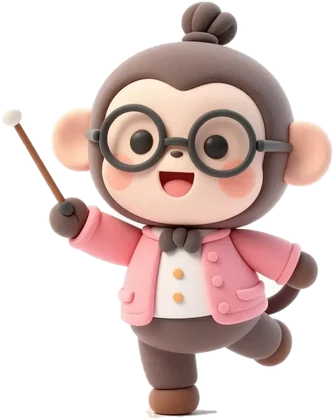
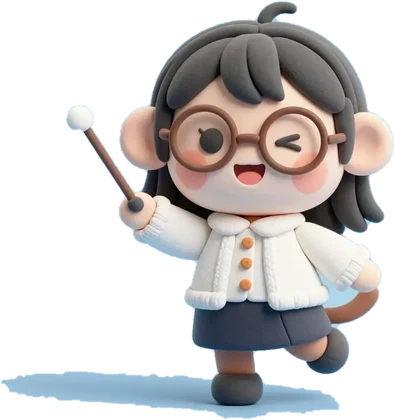
Zoo becomes one big zoo park: drag treats from the basket onto the animals; Atsuko-sensei monkey (long black hair, round glasses, white cardigan) runs around and can be hit with party pies
Claude-Session: https://claude.ai/code/session_01X11x3dUQAdxcMAuX8fPr4M

diff --git a/zoo.js b/zoo.js
@@ -1,94 +1,100 @@
-/* ===== The zoo: take your treats to the animals =====
-   Every animal loves one food from the shop. Give it, the animal munches and thanks you, and you become friends.
-   Friendship hearts are kept in S.zoo; 5 hearts = best friends (a zoo stamp). No coins here: coins come only from practising. */
+/* ===== The zoo: one big zoo park. Drag a treat from your basket onto an animal =====
+   Every animal loves one food. The right food → it munches and thanks you (friendship hearts, 5 = best friends).
+   The wrong food → "no thanks, I love …". Sweets → "sweets make animals sick!".
+   Atsuko-sensei runs around among the monkeys: drag a party pie (or a sweet) onto her and SPLAT.
+   No coins here: coins come only from practising. Hearts are kept in S.zoo, splats in S.zooHits. */
 const ZOO = [
-  { id: "monkey", food: "f_banana" }, { id: "elephant", food: "f_apple" }, { id: "rabbit", food: "f_cucumber" },
-  { id: "parrot", food: "f_pepper" }, { id: "bear", food: "f_honey" }, { id: "penguin", food: "f_fish" },
+  { id: "monkey", food: "f_banana", x: 34, y: 33, h: 15 }, { id: "elephant", food: "f_apple", x: 78, y: 27, h: 19 },
+  { id: "rabbit", food: "f_cucumber", x: 18, y: 52, h: 14 }, { id: "parrot", food: "f_pepper", x: 72, y: 62, h: 13 },
+  { id: "bear", food: "f_honey", x: 33, y: 90, h: 17 }, { id: "penguin", food: "f_fish", x: 64, y: 86, h: 15 },
 ];
-const ZBEST = 5;
-let ZOOF = null, ZAIM = false;
-const throwables = () => roomOf().items.filter(i => SWEETS.includes(i.id)).sort((a, b) => (a.id === "f_pie" ? -1 : 0) - (b.id === "f_pie" ? -1 : 0));
-function zooAim(on) {
-  ZAIM = on && throwables().length > 0;
-  if (on && !ZAIM) toast(t("z_noPie"));
-  const c = document.getElementById("zc-monkey"); if (c) c.outerHTML = zooCard(ZOO[0]);
-  if (ZAIM) { const s = document.getElementById("zs-monkey"); if (s) { s.textContent = t("z_aimHint"); s.classList.add("on"); } }
+const ZBEST = 5, ZFOODS = ["f_banana", "f_apple", "f_cucumber", "f_pepper", "f_honey", "f_fish", "f_pie"];
+let ZOOF = null, ZDRAG = null, ZSHOP = false;
+const throwables = () => roomOf().items.filter(i => SWEETS.includes(i.id));
+
+function zooTray() {
+  const R = roomOf(), cnt = {};
+  R.items.forEach(i => { if (itemOf(i.id)?.cat === "food" && !CATFOOD.includes(i.id)) cnt[i.id] = (cnt[i.id] || 0) + 1; });
+  const ids = Object.keys(cnt);
+  return `<div class="zt-row"><div class="zt-items">${ids.length ? ids.map(id => `<span class="zt-item" data-zf="${id}"><img src="${ART}${id}.webp" alt="${esc(itemOf(id).n)}" draggable="false"><b>${cnt[id]}</b></span>`).join("") : `<span class="muted small">${t("z_trayEmpty")}</span>`}</div>
+   <button class="btn sm soft zt-shopbtn" data-zoo="shop">🛒</button></div>
+   ${ZSHOP ? `<div class="zt-shop">${ZFOODS.map(id => { const F = itemOf(id); return `<button class="zt-buy" data-zoo="buy" data-f="${id}"><img src="${ART}${id}.webp" alt=""><span>${esc(F.n.replace(/ \(.*\)/, ""))}</span><span class="price">${I.coin}${F.p}</span></button>`; }).join("")}</div>` : ""}`;
 }
-/* throw a treat at Atsuko-sensei: tap where you want it to land. She keeps running, so aim well! */
-document.addEventListener("pointerdown", e => {
-  const pen = e.target.closest("#zpen-monkey.aiming"); if (!pen) return; e.preventDefault(); e.stopPropagation();
-  const T = throwables()[0]; if (!T) { zooAim(false); return; }
-  const R = roomOf(); R.items = R.items.filter(i => i !== T); save();
-  const pr = pen.getBoundingClientRect(), tx = e.clientX, ty = e.clientY, f = document.createElement("img");
-  f.src = ART + T.id + ".webp"; f.className = "zoo-fly throw"; f.style.left = (pr.left + pr.width / 2 - 22) + "px"; f.style.top = (pr.bottom + 30) + "px"; document.body.appendChild(f);
-  requestAnimationFrame(() => { f.style.transform = `translate(${tx - (pr.left + pr.width / 2)}px, ${ty - pr.bottom - 30}px) rotate(540deg) scale(.9)`; });
-  try { tone(60, 0, .15, .2); tone(67, .1, .15, .2); } catch (er) { }
-  setTimeout(() => {
-    f.remove();
-    const sn = pen.querySelector(".zoo-sensei"), sr = sn?.getBoundingClientRect(), say = document.getElementById("zs-monkey");
-    const hit = sr && tx > sr.left - 26 && tx < sr.right + 26 && ty > sr.top - 26 && ty < sr.bottom + 26;
-    const L = t(hit ? "z_hitSay" : "z_missSay").split("|");
-    if (say) { say.textContent = L[Math.floor(Math.random() * L.length)]; say.classList.add("on"); }
-    if (hit) {
-      S.zooHits = (S.zooHits || 0) + 1; save();
-      const img = sn.querySelector("img"); img.src = ART + "z_sensei_splat.webp"; sn.classList.add("splatted");
-      [48, 43, 36].forEach((m, k) => { try { tone(m, k * .06, .25, .35); } catch (er) { } });
-      setTimeout(() => { img.src = ART + "z_sensei.webp"; sn.classList.remove("splatted"); }, 2600);
-    } else {
-      const sp = document.createElement("span"); sp.className = "zoo-splat"; sp.textContent = "💥"; sp.style.left = (tx - pr.left) + "px"; sp.style.top = (ty - pr.top) + "px"; pen.appendChild(sp); setTimeout(() => sp.remove(), 1200);
-      try { tone(40, 0, .2, .25); } catch (er) { }
-    }
-    const btn = document.querySelector(".zoo-aim-btn .muted"); if (btn) btn.textContent = "×" + throwables().length;
-    if (!throwables().length) setTimeout(() => zooAim(false), 1500);
-  }, 520);
-}, true);
-function zooCard(z) {
-  const R = roomOf(), have = R.items.filter(i => i.id === z.food).length, n = (S.zoo || {})[z.id] || 0, F = itemOf(z.food);
-  return `<div class="zoo-card ${ZOOF === z.id ? "focus" : ""}" id="zc-${z.id}">
-   <div class="zoo-pen ${z.id === "monkey" && ZAIM ? "aiming" : ""}" ${z.id === "monkey" ? 'id="zpen-monkey"' : ""}>${z.id === "monkey" ? `<button class="zoo-sensei" data-zoo="sensei" aria-label="${t("z_sensei")}"><img src="${ART}z_sensei.webp" alt=""></button>` : ""}<img class="zoo-ani" src="${ART}z_${z.id}.webp" alt=""><span class="zoo-say" id="zs-${z.id}"></span></div>
-   <b>${t("z_" + z.id)}</b>
-   <div class="small zoo-loves">${t("z_loves")} <img src="${ART}${z.food}.webp" alt=""> ${esc(F.n)}</div>
-   <div class="zoo-hearts">${Array.from({ length: ZBEST }, (_, k) => k < n ? "♥" : "♡").join("")}${n >= ZBEST ? ` <span class="zoo-stamp">⭐ ${t("z_best")}</span>` : ""}</div>
-   ${z.id === "monkey" ? `<button class="btn sm block zoo-aim-btn ${ZAIM ? "on" : ""}" data-zoo="aim">🎯 ${ZAIM ? t("z_aimStop") : t("z_aim")} <span class="muted small">×${throwables().length}</span></button>` : ""}
-   ${have ? `<button class="btn sm block" data-zoo="give" data-a="${z.id}">🎁 ${t("z_give", { food: esc(F.n) })} <span class="muted small">×${have}</span></button>`
-     : `<button class="btn sm soft block" data-zoo="buy" data-a="${z.id}">${t("z_buy", { food: esc(F.n) })} · ${I.coin}${F.p}</button>`}
+function zooWorld() {
+  return `<div class="zoo-world" id="zooWorld" style="background-image:url('${ART}zoo_bg.webp')">
+   ${ZOO.map(z => { const n = (S.zoo || {})[z.id] || 0; return `<div class="zw-ani ${ZOOF === z.id ? "focus" : ""}" id="zw-${z.id}" data-zani="${z.id}" style="left:${z.x}%;top:${z.y}%;height:${z.h}%">
+     <img src="${ART}z_${z.id}.webp" alt="${t("z_" + z.id)}" draggable="false"><span class="zw-hearts">${n >= ZBEST ? "⭐" : "♥".repeat(n) || "♡"}</span><span class="zoo-say ${z.x > 60 ? "say-r" : z.x < 25 ? "say-l" : ""}" id="zs-${z.id}"></span></div>`; }).join("")}
+   <div class="zw-ani zw-sensei ${ZOOF === "sensei" ? "focus" : ""}" id="zw-sensei" data-zani="sensei"><img src="${ART}z_sensei.webp" alt="${t("z_sensei")}" draggable="false"><span class="zoo-say" id="zs-sensei"></span></div>
   </div>`;
 }
 function zooOpen(focus) {
-  ZOOF = focus || null; ZAIM = false;
+  ZOOF = focus || null; ZSHOP = false;
   openSheet(`<div class="stack zoo"><div class="act-head"><h2>🦁 ${t("z_title")}</h2><button class="icon-btn" data-act="close" aria-label="Close">${I.close}</button></div>
-   <div class="zoo-sign">${t("z_hi")}</div>
-   <div class="zoo-grid">${ZOO.map(zooCard).join("")}</div></div>`);
-  if (ZOOF) setTimeout(() => document.getElementById("zc-" + ZOOF)?.scrollIntoView({ behavior: "smooth", block: "center" }), 250);
+   <div class="zoo-sign small">${t("z_hi2")}</div>${zooWorld()}<div class="zoo-tray" id="zooTray">${zooTray()}</div></div>`);
+  if (ZOOF) setTimeout(() => zSay(ZOOF, ZOOF === "sensei" ? t("z_aimHint") : t("z_hereMe"), 2800), 300);
 }
-function zooGive(id, btn) {
-  const z = ZOO.find(x => x.id === id), R = roomOf(); if (!z) return;
-  const items = R.items.filter(i => i.id === z.food); if (!items.length) return;
-  const it = items.find(i => !i.in) || items[0];
-  R.items = R.items.filter(i => i !== it); S.zoo = { ...(S.zoo || {}) }; S.zoo[id] = (S.zoo[id] || 0) + 1; save();
-  const ani = document.querySelector(`#zc-${id} .zoo-ani`), say = document.getElementById("zs-" + id);
-  btn.disabled = true;
-  /* the treat flies from the button into the animal's mouth */
-  if (ani) {
-    const a = btn.getBoundingClientRect(), b = ani.getBoundingClientRect(), f = document.createElement("img");
-    f.src = ART + z.food + ".webp"; f.className = "zoo-fly"; f.style.left = (a.left + a.width / 2 - 22) + "px"; f.style.top = (a.top - 10) + "px"; document.body.appendChild(f);
-    requestAnimationFrame(() => { f.style.transform = `translate(${b.left + b.width / 2 - (a.left + a.width / 2)}px, ${b.top + b.height * .45 - a.top + 10}px) scale(.5) rotate(30deg)`; });
-    setTimeout(() => {
-      f.remove(); ani.classList.add("zmunch"); if (say) { say.textContent = t("rm_munch"); say.classList.add("on"); }
-      [0, .25, .5, .75].forEach(w => { try { tone(88, w, .08, .18); } catch (e) { } });
-      setTimeout(() => { if (say) say.textContent = t("z_thanks"); ani.classList.remove("zmunch"); ani.classList.add("zhappy"); try { tone(84, 0, .3, .25); tone(88, .12, .3, .25); tone(91, .24, .5, .25); } catch (e) { } }, 1100);
-      setTimeout(() => {
-        if (S.zoo[id] === ZBEST) { celebrate(); toast(t("z_bestNow", { animal: t("z_" + id) })); }
-        const c = document.getElementById("zc-" + id); if (c) c.outerHTML = zooCard(z); if (typeof refresh === "function" && !document.querySelector(".zoo")) refresh();
-      }, 2600);
-    }, 720);
+const zTray = () => { const e = document.getElementById("zooTray"); if (e) e.innerHTML = zooTray(); };
+function zSay(id, txt, ms = 2200) { const s = document.getElementById("zs-" + id); if (!s) return; s.textContent = txt; s.classList.add("on"); clearTimeout(s._t); s._t = setTimeout(() => s.classList.remove("on"), ms); }
+const zPick = k => { const L = t(k).split("|"); return L[Math.floor(Math.random() * L.length)]; };
+const zHit = (a, x, y, m = 14) => { const r = a.getBoundingClientRect(); return x > r.left - m && x < r.right + m && y > r.top - m && y < r.bottom + m; };
+
+/* ---------- dragging a treat ---------- */
+document.addEventListener("pointerdown", e => {
+  const it = e.target.closest(".zt-item"); if (!it) return; e.preventDefault();
+  const g = document.createElement("img"); g.src = ART + it.dataset.zf + ".webp"; g.className = "zt-ghost"; document.body.appendChild(g);
+  ZDRAG = { id: it.dataset.zf, g, sx: e.clientX, sy: e.clientY, moved: false };
+  g.style.left = e.clientX + "px"; g.style.top = e.clientY + "px";
+});
+document.addEventListener("pointermove", e => {
+  const d = ZDRAG; if (!d) return; e.preventDefault(); if (Math.abs(e.clientX - d.sx) + Math.abs(e.clientY - d.sy) > 6) d.moved = true;
+  d.g.style.left = e.clientX + "px"; d.g.style.top = e.clientY + "px";
+  document.querySelectorAll(".zw-ani").forEach(a => a.classList.toggle("over", zHit(a, e.clientX, e.clientY, 8)));
+}, { passive: false });
+function zEnd(e) {
+  const d = ZDRAG; ZDRAG = null; if (!d) return;
+  document.querySelectorAll(".zw-ani.over").forEach(a => a.classList.remove("over"));
+  const x = e.clientX, y = e.clientY;
+  if (!d.moved) { d.g.remove(); toast(t("z_dragHint")); return; }
+  /* Sensei first: she runs in front of the monkey */
+  const all = [...document.querySelectorAll(".zw-ani")], target = all.find(a => a.dataset.zani === "sensei" && zHit(a, x, y, 18)) || all.find(a => zHit(a, x, y));
+  if (!target) { d.g.classList.add("back"); d.g.style.left = d.sx + "px"; d.g.style.top = d.sy + "px"; setTimeout(() => d.g.remove(), 350); return; }
+  const who = target.dataset.zani, R = roomOf();
+  d.g.remove();
+  if (who === "sensei") {
+    if (!SWEETS.includes(d.id)) { zSay("sensei", t("z_senseiNo")); return; }
+    const it = R.items.find(i => i.id === d.id); if (!it) return;
+    R.items = R.items.filter(i => i !== it); S.zooHits = (S.zooHits || 0) + 1; save();
+    const img = target.querySelector("img"); img.src = ART + "z_sensei_splat.webp"; target.classList.add("splatted");
+    [48, 43, 36].forEach((m, k) => { try { tone(m, k * .06, .25, .35); } catch (er) { } }); zSay("sensei", zPick("z_hitSay"), 2600);
+    setTimeout(() => { img.src = ART + "z_sensei.webp"; target.classList.remove("splatted"); }, 2600); zTray(); return;
   }
+  const z = ZOO.find(a => a.id === who); if (!z) return;
+  const nope = msg => { zSay(who, msg, 2600); target.classList.add("nope"); setTimeout(() => target.classList.remove("nope"), 600); try { tone(55, 0, .2, .2); tone(52, .15, .25, .2); } catch (er) { } };
+  if (SWEETS.includes(d.id)) return nope(t("z_noSweets"));
+  if (z.food !== d.id) return nope(t("z_noThanks", { food: itemOf(z.food).n }));
+  const it = R.items.find(i => i.id === d.id && !i.in) || R.items.find(i => i.id === d.id); if (!it) return;
+  R.items = R.items.filter(i => i !== it); S.zoo = { ...(S.zoo || {}) }; S.zoo[who] = (S.zoo[who] || 0) + 1; save(); zTray();
+  target.classList.add("zmunch"); zSay(who, t("rm_munch"), 1200); [0, .25, .5, .75].forEach(w => { try { tone(88, w, .08, .18); } catch (er) { } });
+  setTimeout(() => {
+    target.classList.remove("zmunch"); target.classList.add("zhappy"); zSay(who, t("z_thanks"), 2000);
+    try { tone(84, 0, .3, .25); tone(88, .12, .3, .25); tone(91, .24, .5, .25); } catch (er) { }
+    const h = target.querySelector(".zw-hearts"), n = S.zoo[who]; if (h) h.textContent = n >= ZBEST ? "⭐" : "♥".repeat(n);
+    if (n === ZBEST) { celebrate(); toast(t("z_bestNow", { animal: t("z_" + who) })); }
+    setTimeout(() => target.classList.remove("zhappy"), 1600);
+  }, 1100);
 }
+document.addEventListener("pointerup", zEnd); document.addEventListener("pointercancel", zEnd);
+
 document.addEventListener("click", e => {
-  const b = e.target.closest("[data-zoo]"); if (!b) return; const a = b.dataset.zoo, id = b.dataset.a;
+  const b = e.target.closest("[data-zoo],[data-zani]"); if (!b) return;
+  if (b.dataset.zani) {
+    const id = b.dataset.zani;
+    if (id === "sensei") { zSay("sensei", zPick("z_senseiSay")); [79, 84, 79, 84].forEach((m, k) => { try { tone(m, k * .09, .12, .2); } catch (er) { } }); b.classList.remove("hop"); void b.offsetWidth; b.classList.add("hop"); }
+    else { const z = ZOO.find(a => a.id === id); zSay(id, t("z_iLove", { food: itemOf(z.food).n })); }
+    return;
+  }
+  const a = b.dataset.zoo;
   if (a === "open") zooOpen();
-  else if (a === "aim") zooAim(!ZAIM);
-  else if (a === "sensei") { const s = document.getElementById("zs-monkey"), L = t("z_senseiSay").split("|"); if (s) { s.textContent = L[Math.floor(Math.random() * L.length)]; s.classList.add("on"); clearTimeout(s._t); s._t = setTimeout(() => s.classList.remove("on"), 2500); } [79, 84, 79, 84].forEach((m, k) => { try { tone(m, k * .09, .12, .2); } catch (er) { } }); b.classList.remove("hop"); void b.offsetWidth; b.classList.add("hop"); }
-  else if (a === "give") zooGive(id, b);
-  else if (a === "buy") { const z = ZOO.find(x => x.id === id); if (!z) return; const before = roomOf().items.length; petBuy(z.food); if (roomOf().items.length > before) { ZOOF = id; zooOpen(id); } }
+  else if (a === "shop") { ZSHOP = !ZSHOP; zTray(); }
+  else if (a === "buy") { const f = b.dataset.f, F = itemOf(f); if ((S.coins || 0) < F.p) { toast(t("notEnough")); return; } S.coins -= F.p; roomOf().items.push({ u: uid(), id: f, placed: true, x: 14 + Math.random() * 72, y: 74 + Math.random() * 20 }); save(); if (typeof refreshTop === "function") refreshTop(); try { tone(84, 0, .2, .2); } catch (er) { } zTray(); }
 });

diff --git a/strings.js b/strings.js
@@ -135,7 +135,8 @@ const STR={en:{
  sb_6_i1:"ROOOAR! I am Leo, the King of Rhythm!", sb_6_i2:"W-w-we want to play at the Moon Concert…", sb_6_i3:"Then show me you can COUNT! My song is in 4/4.", st_6_q:"How many beats are in one bar of 4/4?", sb_6_e0_1:"Daizu counted: 1-2, 1-2, 1-2… the band played like a march.", sb_6_e0_2:"“That's a march for DUCKS!” Quack, quack! 🦆🦆", sb_6_e1_1:"Daizu counted: 1-2-3, 1-2-3… everyone started to waltz!", sb_6_e1_2:"The King spun round and round… and fell over. 💫", sb_6_e2_1:"1-2-3-4, 1-2-3-4! The band played perfectly together. 🎶", sb_6_e2_2:"“YES! You can count!” The King started to dance. 🕺", sb_7_i1:"Now — the Royal Parade! Everyone marches at the same steady speed. Not too fast, not too slow!", sb_7_i2:"The whole band lines up behind the King…", st_7_q:"Which word tells the band to march at a steady, medium speed?", sb_7_e0_1:"Moderato — a moderate, medium speed. Left, right, left, right…", sb_7_e0_2:"The parade was perfect! The whole town cheered. 👏", sb_7_e1_1:"Rubato — free, stretchy time! Some cats walked fast, some walked slow…", sb_7_e1_2:"Everyone bumped into each other. BONK! 💫", sb_7_e2_1:"Prestissimo — as fast as possible! The King raced off…", sb_7_e2_2:"…and rolled down the hill like a ball! 🦁⚽", sb_8_i1:"Tonight is the Royal Ball! We will dance the waltz!", sb_8_i2:"A waltz… how elegant. I shall dance with the King.", sb_8_i3:"Band, play a waltz! Hmm… how many beats does a waltz have?", st_8_q:"Which time signature is a waltz?", sb_8_e0_1:"2/4 — ONE-two, ONE-two… that's a march!", sb_8_e0_2:"The dancers stomped like soldiers and stepped on each other's toes. OUCH! 🦶", sb_8_e1_1:"3/4 — ONE-two-three, ONE-two-three… a real waltz!", sb_8_e1_2:"The King and Azuki waltzed under the chandelier. ✨", sb_8_e2_1:"4/4 — ONE-two-three-four… the dancers got confused…", sb_8_e2_2:"Azuki tripped and landed in the cake! 🎂", sb_9_i1:"Listen. Music needs to breathe, too.", sb_9_i2:"In my song there is a place where everyone is silent for exactly ONE beat.", st_9_q:"Which sign means: be silent for one beat?", sb_9_e0_1:"Quarter rest — silent for one beat… 🤫 …and on!", sb_9_e0_2:"The little silence made the music exciting! The King cried happy tears. 😭👑", sb_9_e1_1:"Whole note — a long note for 4 beats. Daizu held his note… and held it… and held it…", sb_9_e1_2:"He ran out of breath and turned blue! 🥶", sb_9_e2_1:"Tie — the notes join together, so the band never stopped at all…", sb_9_e2_2:"“No silence?! I SAID SILENCE!” 🦁💢", sb_10_i1:"The final test! At the end of my song you will see the letters D.C.", sb_10_i2:"The audience wants MORE! What do you do?", st_10_q:"The music says “go back to the beginning”. Which word is it?", sb_10_e0_1:"Fine — the end. The band stopped and went home.", sb_10_e0_2:"The audience threw popcorn: “MORE! MORE!” 🍿", sb_10_e1_1:"Da Capo — back to the beginning! The band played the whole song again!", sb_10_e1_2:"“You may play at the Moon Concert!” roared the King. 🌙🎉", sb_10_e1_3:"And under the moon, the cats' band was ready… To be continued! 🎹", sb_10_e2_1:"Coda — jump to the ending… The song was over in three seconds!", sb_10_e2_2:"“That's IT?!” said the King. Even the moon yawned. 🥱", tm_b2:"2 beats in a bar = 2/4 time, like a march: ONE-two", tm_b3:"3 beats in a bar = 3/4 time, like a waltz: ONE-two-three", tm_b4:"4/4 = 4 beats in every bar: 1-2-3-4", tm_moderato:"at a moderate, medium speed 🚶", tm_rubato:"free time — stretch and squeeze the speed", tm_prestissimo:"as fast as possible ⚡⚡", tm_t24:"2 beats in a bar — a march", tm_t34:"3 beats in a bar — a waltz 💃", tm_t44:"4 beats in a bar", tm_qrest:"be silent for one beat 𝄽", tm_whole:"a long note held for 4 beats", tm_tie:"joins two notes: play once, hold for both", tm_fine:"the end — stop here", tm_dc:"go back to the beginning ↩", tm_coda:"jump to the ending part",
  z_monkey:"Monkey", z_elephant:"Elephant", z_rabbit:"Rabbit", z_parrot:"Parrot", z_bear:"Bear", z_penguin:"Penguin", z_title:"The Zoo", z_hi:"🎟 Welcome to the zoo! Bring treats from your room — every animal has a favourite.", z_loves:"Loves", z_best:"Best friends", z_give:"Give {food}", z_buy:"Buy {food}", z_thanks:"Thank you! ♥", z_bestNow:"You and the {animal} are best friends now! ⭐", z_go:"Go to the zoo", gf_who:"Who gets the {food}?", gf_zoo:"Take it to the {animal} at the zoo", gf_zooWhy:"The {animal} loves {food}!", gf_zooNo:"No zoo animal eats this", gf_zooNoWhy:"Sweets are not good for animals — but the cats love them!", gf_cats:"Keep it for the cats", gf_catsOk:"Kept! Give it when a cat comes to visit. 🐾", gf_keep:"Put it in the {box}", gf_give:"Give", st_putIn:"{food} → {box} ✓", st_notHere:"{food} doesn't go in the {box}.", st_takeOut:"Take out", st_empty:"The {box} is empty.", st_how:"Tip: drag a treat onto the fridge or the basket to put it inside.",
  gf_sweets:"Sweets are for people — not for animals!", gf_sweetsWhy:"Never give sweets to real cats, dogs or zoo animals: it makes them sick. Keep them for yourself (or the fridge)! 🧊", gf_catsWhy:"When Daizu or another cat knocks on your door, give it cat food. Cats love it!", z_sensei:"Atsuko-sensei", z_senseiSay:"Ukki! Did you practise today? 🎹|Ukki ukki! Count 1-2-3-4! 🐒|Ukki! Slow practice is the best! 🐢|Ukki! Show me 5 in a row! 🍌",
- gf_throw:"Throw it at Atsuko-sensei at the zoo!", gf_throwWhy:"She is hiding among the monkeys. Aim well — she moves fast! 🐒", z_aim:"Throw at Atsuko-sensei", z_aimStop:"Stop throwing", z_aimHint:"Tap on Sensei to throw! 🎯", z_noPie:"You have nothing to throw. Buy a party pie in the shop (5 coins)! 🥧", z_hitSay:"Ukkiiii!! 😵 My glasses!|SPLAT! Ukki… go and practise! 🎹|Ukki! Delicious… but RUDE! 😤|Ukki ukki! Now play 5 in a row for me!", z_missSay:"Missed! Ukki ukki 😜|Too slow! Practise your aim! 🐒|Ukki! Can't catch me! 🏃♀",
+ gf_throw:"Throw it at Atsuko-sensei at the zoo!", gf_throwWhy:"She is hiding among the monkeys. Aim well — she moves fast! 🐒", z_aim:"Throw at Atsuko-sensei", z_aimStop:"Stop throwing", z_noPie:"You have nothing to throw. Buy a party pie in the shop (5 coins)! 🥧", z_hitSay:"Ukkiiii!! 😵 My glasses!|SPLAT! Ukki… go and practise! 🎹|Ukki! Delicious… but RUDE! 😤|Ukki ukki! Now play 5 in a row for me!", z_missSay:"Missed! Ukki ukki 😜|Too slow! Practise your aim! 🐒|Ukki! Can't catch me! 🏃♀",
+ z_hi2:"Drag a treat from your basket below onto an animal. Every animal has a favourite! (Psst… Atsuko-sensei is hiding among the monkeys 🐒)", z_trayEmpty:"Your basket is empty — tap 🛒 to buy treats.", z_hereMe:"Over here! Over here! 👋", z_dragHint:"Drag it onto an animal! 👆", z_senseiNo:"Ukki? I only catch party pies! 🥧", z_noSweets:"Sweets make animals sick! 🙅", z_noThanks:"No thanks… I love {food}! 🙂", z_iLove:"I love {food}! 😋", z_aimHint:"Ukki ukki! Throw a pie at me — if you can! 🥧",
  pp_firstPlan:"Before you practise, make your plan: <b>what</b> you will practise, <b>how many times</b>, and <b>how many minutes</b>.",pp_makePlan:"Make my plan",pp_timeGoal:"{a} of {b} min",pp_min:"{n} min",
  pp_fromNext:"This is the plan you made yesterday. Let's go!",pp_planTomorrow:"Plan tomorrow's practice",pp_nextReady:"Tomorrow's plan is ready",pp_nextChange:"Change",pp_addMore:"Practise more (add cards)",pp_nextSaved:"Tomorrow's plan is saved! 📅",
  pp_setOf:"Round {a} of {b}",pp_setDone:"Round done! {n} more to go 💪",

diff --git a/styles.css b/styles.css
@@ -818,3 +818,34 @@ input,select,textarea{font-size:16px} /* no zoom on iOS focus */
 .zoo-fly.throw{transition:transform .5s cubic-bezier(.2,-.6,.7,1)}
 .zoo-splat{position:absolute;transform:translate(-50%,-50%);font-size:30px;pointer-events:none;animation:scPop .3s ease-out}
 .zoo-aim-btn.on{background:#ff6b6b!important;color:#fff!important}
+
+/* the zoo park */
+.zoo-world{position:relative;width:100%;aspect-ratio:3/4;background-size:cover;background-position:center;border-radius:18px;overflow:hidden;touch-action:none;user-select:none;-webkit-user-select:none}
+.zw-ani{position:absolute;transform:translate(-50%,-100%);aspect-ratio:1;display:flex;align-items:flex-end;justify-content:center;cursor:pointer;transition:filter .2s}
+.zw-ani img{height:100%;width:auto;pointer-events:none;filter:drop-shadow(0 4px 4px rgba(0,0,0,.2));animation:scBob 2.4s ease-in-out infinite}
+.zw-ani.over img{filter:drop-shadow(0 0 10px #ffd84d) drop-shadow(0 0 4px #fff)}
+.zw-ani.focus img{filter:drop-shadow(0 0 12px #ff9d00)}
+.zw-ani.zmunch img{animation:zMunch .25s ease-in-out infinite}
+.zw-ani.zhappy img{animation:zHappy .5s ease-in-out 3}
+.zw-ani.nope img{animation:zNope .15s linear 4}@keyframes zNope{25%{transform:translateX(-6px)}75%{transform:translateX(6px)}}
+.zw-hearts{position:absolute;top:-4px;left:50%;transform:translate(-50%,-100%);font-size:11px;color:#ff4f86;background:#fffd;border-radius:999px;padding:1px 6px;white-space:nowrap;font-weight:900}
+.zw-ani .zoo-say{top:-26px;z-index:5}
+.zw-sensei{height:16%;top:40%;z-index:3;animation:zRun 9s ease-in-out infinite}
+@keyframes zRun{0%{left:12%}20%{left:48%;top:36%}35%{left:56%;top:44%}55%{left:30%;top:46%}75%{left:8%;top:38%}100%{left:12%}}
+.zw-sensei img{animation:zHop .4s ease-in-out infinite alternate}
+.zw-sensei.splatted{animation-play-state:paused}.zw-sensei.splatted img{animation:scShk .15s linear 8}
+.zw-sensei.hop img{animation:zFlip .6s ease-out}
+.zoo-tray{position:sticky;bottom:0;background:#fff8ec;color:#222;border:2px solid #f0d9a8;border-radius:16px;padding:8px;display:flex;flex-direction:column;gap:8px;z-index:4}
+.zt-row{display:flex;gap:8px;align-items:center}
+.zt-items{display:flex;gap:8px;overflow-x:auto;flex:1;min-height:56px;align-items:center}
+.zt-item{position:relative;flex:none;width:56px;height:56px;background:#fff;border-radius:12px;display:grid;place-items:center;touch-action:none;cursor:grab;box-shadow:0 2px 6px #0001}
+.zt-item img{width:46px;height:46px;object-fit:contain;pointer-events:none}
+.zt-item b{position:absolute;right:-4px;top:-4px;background:#ff6b6b;color:#fff;border-radius:999px;font-size:11px;padding:1px 6px}
+.zt-shop{display:grid;grid-template-columns:repeat(4,1fr);gap:6px}
+.zt-buy{display:flex;flex-direction:column;align-items:center;gap:2px;background:#fff;border:1px solid #eee;border-radius:10px;padding:4px;font:inherit;font-size:11px;color:#222;cursor:pointer}
+.zt-buy img{width:36px;height:36px;object-fit:contain}
+.zt-ghost{position:fixed;width:60px;height:60px;object-fit:contain;transform:translate(-50%,-60%) scale(1.15);pointer-events:none;z-index:9999;filter:drop-shadow(0 6px 8px rgba(0,0,0,.3))}
+.zt-ghost.back{transition:left .3s,top .3s,opacity .3s;opacity:0}
+.zw-ani .zoo-say.say-r{left:auto;right:-6px;transform:scale(0);transform-origin:right bottom}.zw-ani .zoo-say.say-r.on{transform:scale(1)}
+.zw-ani .zoo-say.say-l{left:-6px;transform:scale(0);transform-origin:left bottom}.zw-ani .zoo-say.say-l.on{transform:scale(1)}
+.zw-sensei .zoo-say{white-space:normal;width:150px;text-align:center}

diff --git a/sw.js b/sw.js
@@ -1,7 +1,7 @@
 /* Service worker: caches the app shell so the app opens offline.
    Supabase API/Auth/Storage/Functions requests are never cached (they are not intercepted at all).
    Bump VERSION on every deploy so phones pick up the new files. */
-const VERSION = "misosofi-practice-v1.34.0";
+const VERSION = "misosofi-practice-v1.35.0";
 const SHELL = [
   "./", "./index.html", "./styles.css", "./config.js", "./strings.js", "./core.js", "./data.js", "./songs.js", "./pitch.js", "./micgames.js", "./pets.js", "./zoo.js", "./plan.js", "./technique.js", "./homework.js", "./weekly.js", "./story.js", "./practiceplan.js", "./catalogs.js", "./visits.js", "./daizu.js", "./student.js", "./vreq.js", "./teacher.js", "./install.js", "./app.js",
   "./manifest.webmanifest", "./icons/icon-192.png", "./icons/icon-512.png", "./icons/apple-touch-icon.png", "./icons/favicon-32.png"

diff --git a/pets.js b/pets.js
@@ -335,5 +335,5 @@ document.addEventListener("click", e => {
   else if (a === "keep") { const x = R.items.find(i => i.u === b.dataset.u); if (!x) return; x.in = b.dataset.box; save(); closeSheet(); toast(t("st_putIn", { food: itemOf(x.id).n, box: itemOf(R.items.find(i => i.u === x.in).id).n })); refresh(); }
   else if (a === "cats") { closeSheet(); toast(t("gf_catsOk")); }
   else if (a === "zoo") zooOpen(b.dataset.a);
-  else if (a === "throw") { zooOpen("monkey"); setTimeout(() => zooAim(true), 400); }
+  else if (a === "throw") zooOpen("sensei");
 });
